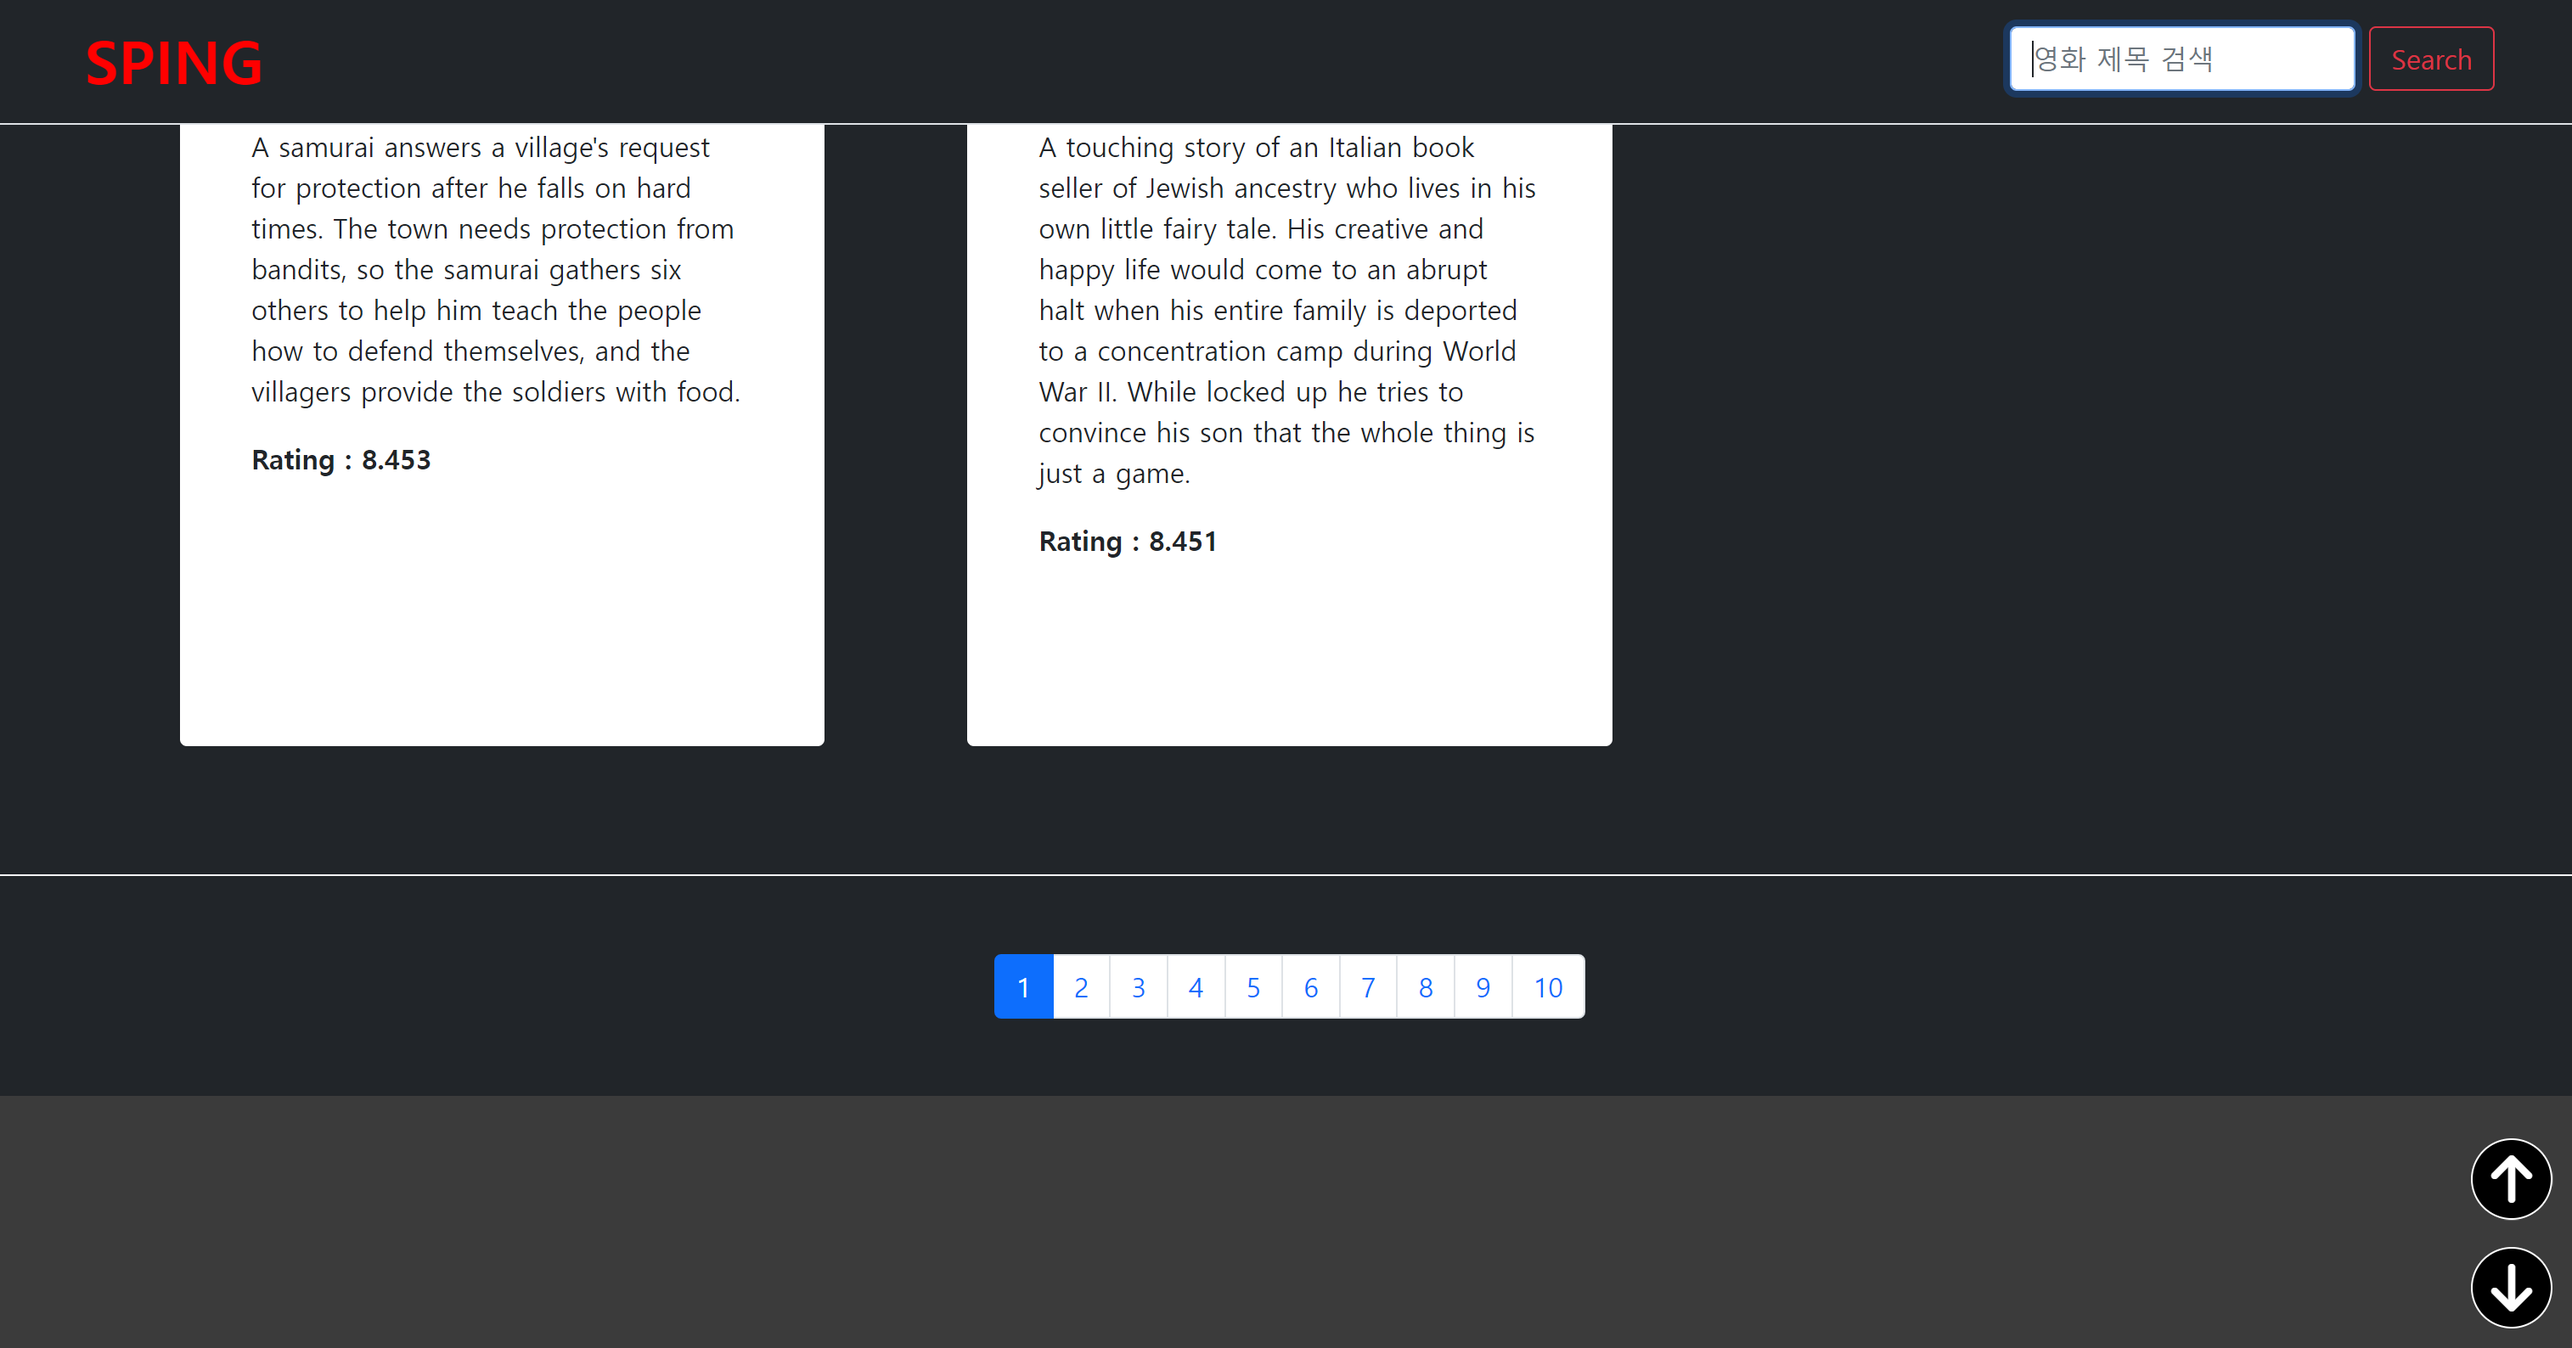
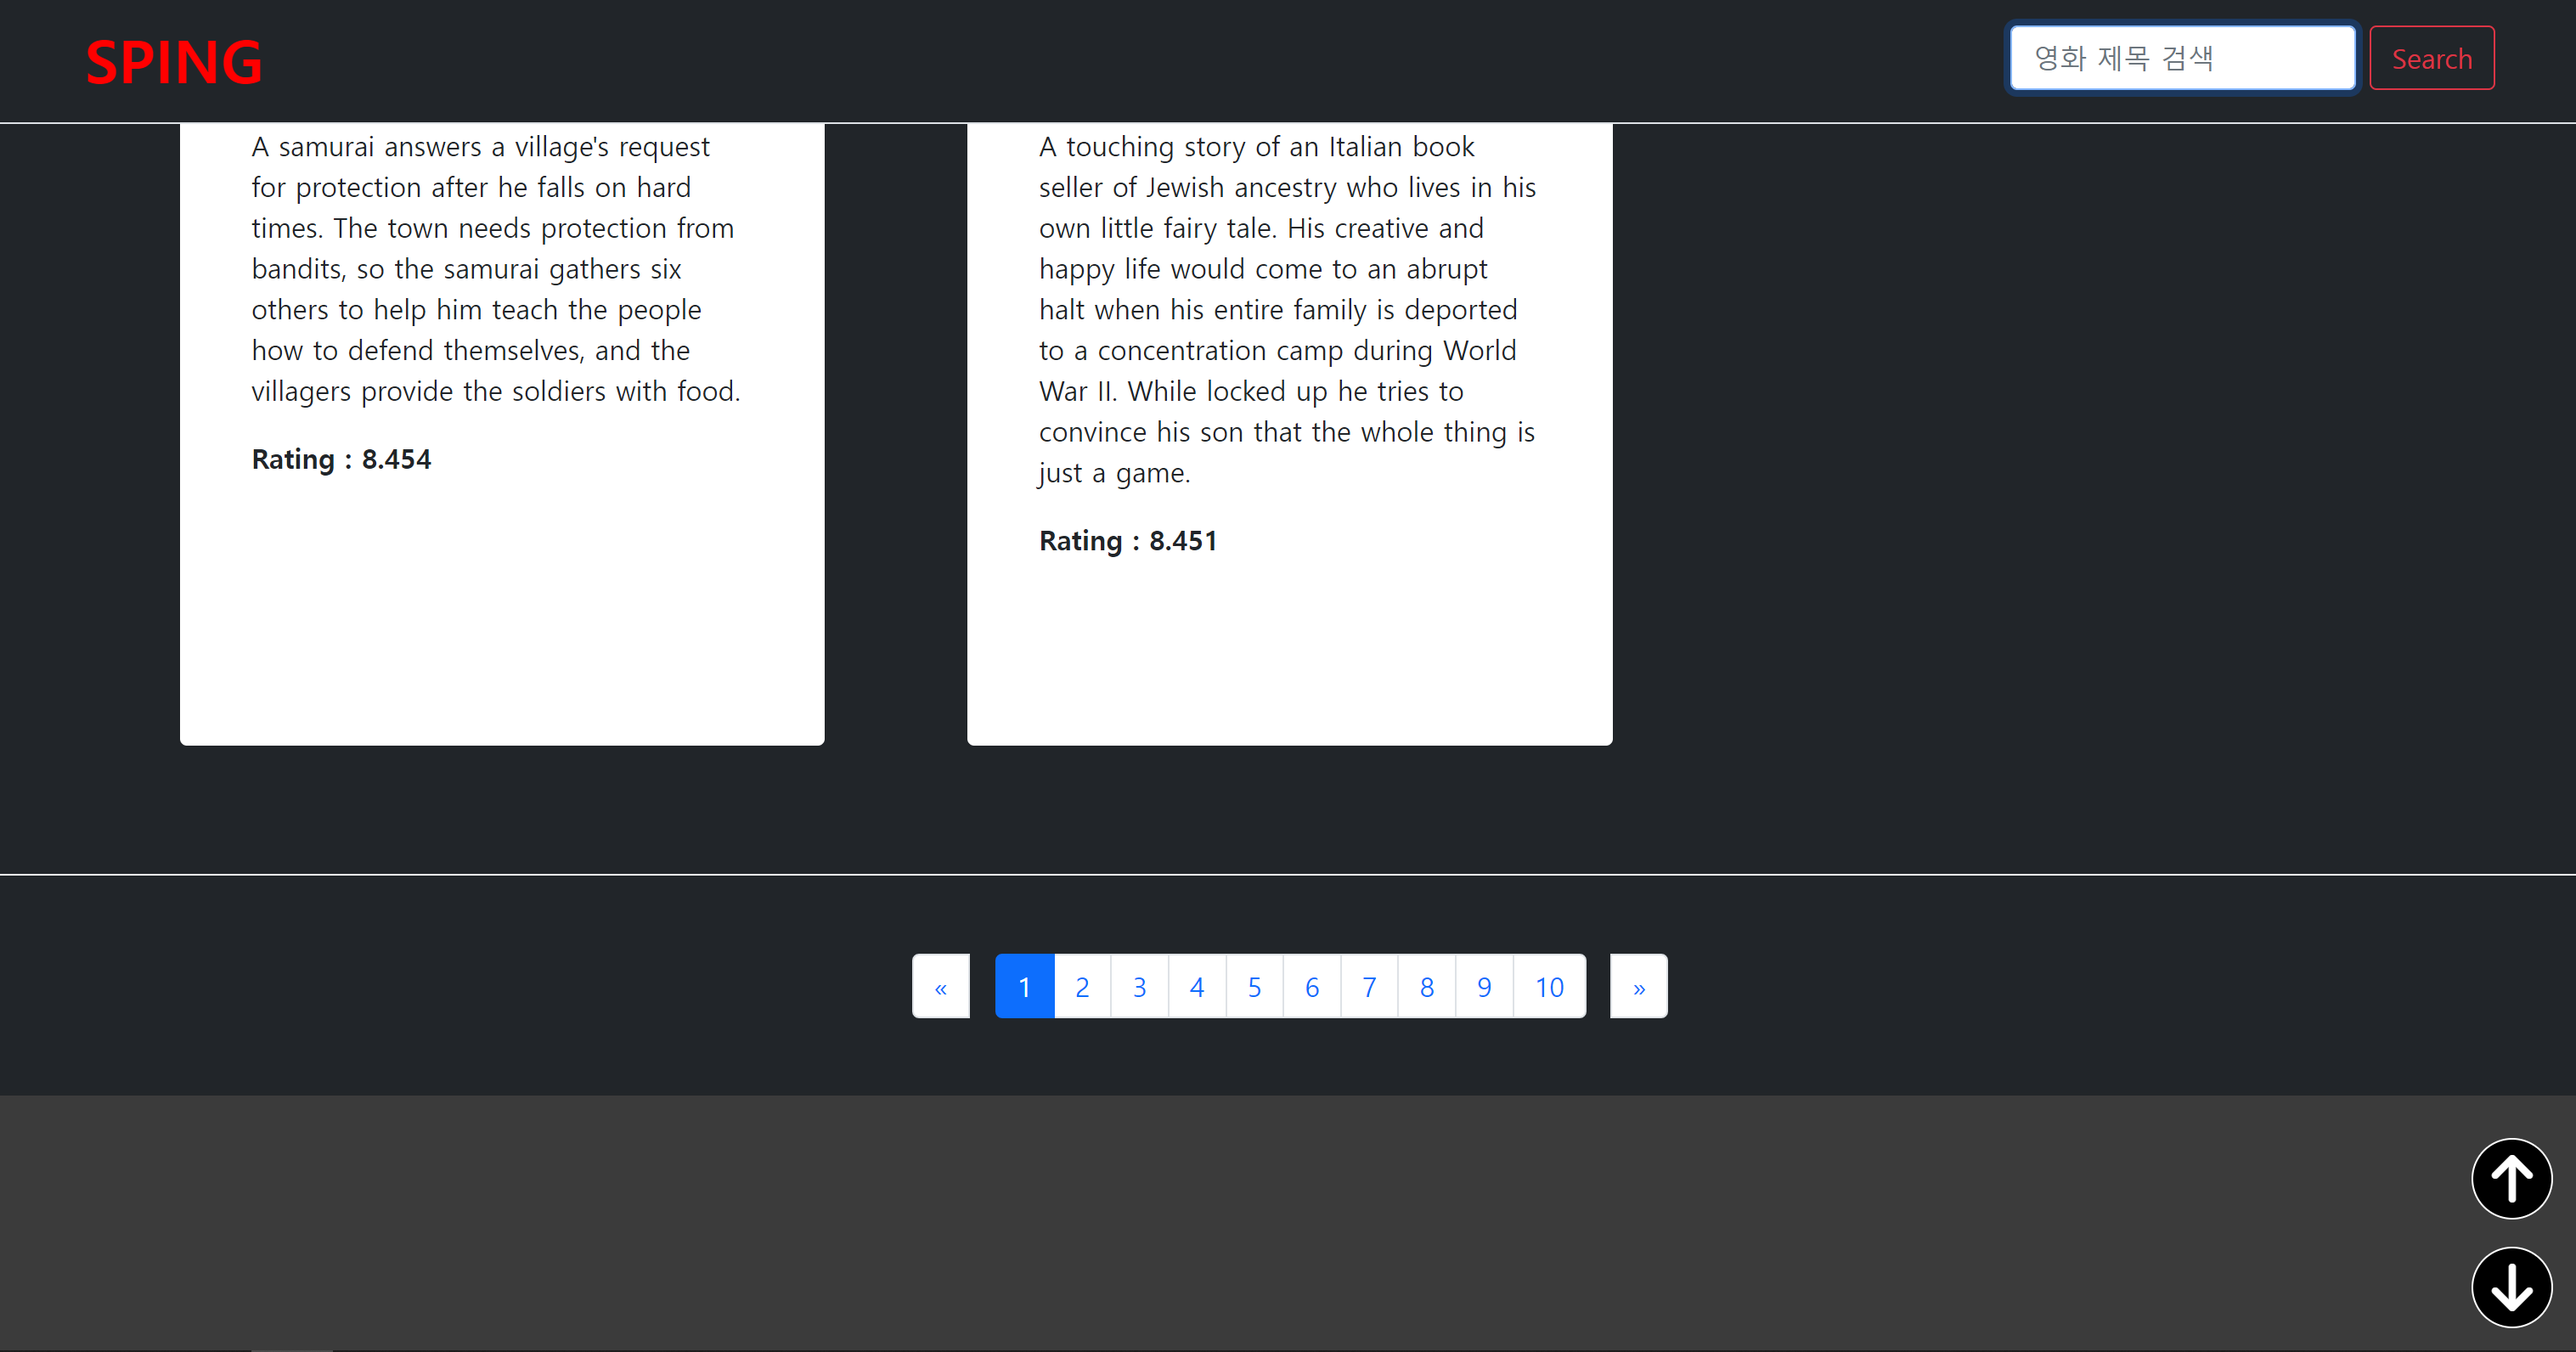
Update readme

diff --git a/README.md b/README.md
@@ -29,6 +29,7 @@
 
 ## 1. 개발 기간
 - 2024.04.24 ~ 2024.04.26
+- 피드백 수정 : 2024.04.29 (완)
 
 <br>
 
@@ -80,11 +81,13 @@
 - 검색창에 입력한 내용과 영화 제목과 비교해서 결과 출력
 - 대소문자 구분 없음
 - 다만, 페이지 단위로 검색이 가능
-- 원래는 10페이지 모두의 데이터를 하나의 변수에 저장할까 고민했지만 일단 페이지 단위로 검색하게 만듦
-- 하나의 변수에 데이터를 저장하는 방식은 데이터베이스와 유사해 보임
+- ~~원래는 10페이지 모두의 데이터를 하나의 변수에 저장할까 고민했지만 일단 페이지 단위로 검색하게 만듦~~
+- ~~하나의 변수에 데이터를 저장하는 방식은 데이터베이스와 유사해 보임~~
+- **(수정)** 10페이지 이상도 볼 수 있도록 수정
+- **(수정)** 전역 변수가 아니라 모듈화를 통해서 직접 변수에 접근하지 못하게 함
     ```javascript
-    import { movieDataList } from "./script.js";
     import { appendCard } from "./card_append.js";
+    import { getMovieDataList } from "./data_manage.js";
 
     const $movieCards = document.querySelector("#movieCards");
     const $searchContent = document.getElementById("search_content");
@@ -98,7 +101,7 @@
         } else {
             // 현재 카드 리스트를 삭제
             $movieCards.replaceChildren();
-            movieDataList.filter((item) => {
+            getMovieDataList().filter((item) => {
                 // 제목과 입력한 내용을 전부 소문자로 바꿔서 비교
                 let lowerTitle = item.title.toLowerCase();
                 let lowerContent = $searchContent.value.toLowerCase();
@@ -111,22 +114,20 @@
     }
 
     // 버튼에 클릭으로 검색 이벤트 추가
-    export const searchBtn = () => {
+    export const addSearchBtnEvent = () => {
         $searchBtn.addEventListener("click", () => {
             searchMovie();
         });
     }
 
-
     // 엔터 입력 시 검색 이벤트 추가
-    export const searchEnter = () => {
+    export const addSearchEnterEvent = () => {
         window.addEventListener("keydown", (event) => {
             if (event.code === "Enter") {
                 searchMovie();
             }
         });
     }
-
     ```
 
 <br>
@@ -135,32 +136,87 @@
 - TMDB는 한 페이지당 20개의 영화 데이터만 전송함
 - 대신 URL에 페이지를 조절해서 값을 요청할 수 있음
 - 그 방법을 이용해서 10페이지 정도의 데이터만 사용
-```javascript
-import { movieDataList } from "./script.js";
-import { loadData } from "./data_load.js";
+- **(수정)** 10페이지 이상도 출력되도록 만듦
+- **(수정)** HTML 코드를 반복문을 통해서 출력
+    ```javascript
+    import { loadData } from "./data_load.js";
+    import { clearMovieDataList } from "./data_manage.js";
 
-const $movieCards = document.querySelector("#movieCards");
-const $pageValue = document.querySelectorAll(".page-item");
-const $activeClass = document.getElementsByClassName("active");
+    const $movieCards = document.querySelector("#movieCards");
+    const $activeClass = document.getElementsByClassName("active");
+    const $pageGroup = document.getElementById('page_item_group');
+    const $prevGroupPage = document.getElementById('prev_group_page');
+    const $nextGroupPage = document.getElementById('next_group_page');
+    let groupPage = 1;
 
 
-// 유사 Pagination 구현
-export const pagination = () => {
-    $pageValue.forEach((item) => {
-        item.addEventListener("click", async () => {
+    // 현재 그룹 페이지 반환 함수
+    export const getGroupPage = () => {
+        return groupPage;
+    }
+    // 그룹 페이지 변수 수정 (이전 그룹 페이지)
+    const setPrevGroupPage = () => {
+        if (groupPage - 10 > 0) {
+            return groupPage -= 10;
+        }
+    }
+    // 그룹 페이지 변수 수정 (다음 그룹 페이지)
+    const setNextGroupPage = () => {
+        return groupPage += 10;
+    }
+
+
+    // 페이지 그룹 이동 버튼에 이벤트 추가 함수
+    export const initPrevNextBtn = () => {
+        $prevGroupPage.addEventListener('click', () => {
+            setPrevGroupPage();
+            $pageGroup.replaceChildren();
+            printPagination(getGroupPage());
+            $pageGroup.firstChild.click();
+        });
+
+        $nextGroupPage.addEventListener('click', () => {
+            setNextGroupPage();
+            $pageGroup.replaceChildren();
+            printPagination(getGroupPage());
+            $pageGroup.firstChild.click();
+        });
+    }
+
+
+    // Pagination 클릭 이벤트 구현
+    const pagination = (item) => {
+        item.addEventListener("click", () => {
             // 페이지 버튼의 활성화를 위한 코드
             $activeClass[1].className = $activeClass[1].className.replace(" active", "");
             item.className += " active";
             
             // 기존의 Card 삭제
             $movieCards.replaceChildren();
-            movieDataList.length = 0  // 페이지 단위로 검색 가능하게 할려고
-            await loadData(item.value);
+            clearMovieDataList();  // 페이지 단위로 검색 가능하게 할려고
+            loadData(item.value);
             window.scrollTo({ top: 0, behavior: "smooth" });
         });
-    });
-}
-```
+    }
+
+
+    // 페이지네이션 출력
+    export const printPagination = (startPageNum) => {
+        let html_tmp = ``;
+
+        for (let i = 0; i < 10; i++){
+            if (i === 0) {
+                html_tmp = `<li class="page-item active" value="${startPageNum}"><a class="page-link">${startPageNum}</a></li>`;
+            } else {
+                html_tmp = `<li class="page-item" value="${startPageNum + i}"><a class="page-link">${startPageNum + i}</a></li>`;
+            }
+            $pageGroup.insertAdjacentHTML("beforeend", html_tmp);
+
+            let pageBtn = $pageGroup.lastChild;
+            pagination(pageBtn);
+        }
+    }
+    ```
 
 <br>
 
@@ -249,4 +305,113 @@ const loadData = async (pageNum) => {
 
     // 참고 : https://kimk2062.tistory.com/24
     ```
-    
+
+<br>
+
+### 5-4. 전역변수 모듈화
+- 피드백으로 전역변수말고 다른 방법을 사용하라고 피드백 받음
+- 객체지향프로그래밍의 요소 중 캡슐화를 사용
+- 데이터가 들어있는 변수에 직접 접근하지 못하도록 수정
+- 그 변수를 사용하기 위해서는 만들어진 함수를 통해서 접근
+    ```javascript
+    let movieDataList = [];
+
+    export const getMovieDataList = () => {
+        return movieDataList;
+    }
+
+    export const addMovieData = (item) => {
+        movieDataList.push(item);
+    }
+
+    export const clearMovieDataList = () => {
+        movieDataList.length = 0;
+    }
+    ```
+
+<br>
+
+### 5-5. 페이지네이션 10페이지 이상으로 수정
+- 기존에는 10페이지에 해당하는 데이터만 볼 수 있었음
+- 피드백 이후 페이지네이션 버튼을 자바스크립트로 관리할 수 있도록 수정
+- 그렇기에 printPagination() 등 필요한 함수를 구현
+- 함수들간에 실행 순서에서 시간을 많이 소모함
+    ```javascript
+    import { loadData } from "./data_load.js";
+    import { clearMovieDataList } from "./data_manage.js";
+
+    const $movieCards = document.querySelector("#movieCards");
+    const $activeClass = document.getElementsByClassName("active");
+    const $pageGroup = document.getElementById('page_item_group');
+    const $prevGroupPage = document.getElementById('prev_group_page');
+    const $nextGroupPage = document.getElementById('next_group_page');
+    let groupPage = 1;
+
+
+    // 현재 그룹 페이지 반환 함수
+    export const getGroupPage = () => {
+        return groupPage;
+    }
+    // 그룹 페이지 변수 수정 (이전 그룹 페이지)
+    const setPrevGroupPage = () => {
+        if (groupPage - 10 > 0) {
+            return groupPage -= 10;
+        }
+    }
+    // 그룹 페이지 변수 수정 (다음 그룹 페이지)
+    const setNextGroupPage = () => {
+        return groupPage += 10;
+    }
+
+
+    // 페이지 그룹 이동 버튼에 이벤트 추가 함수
+    export const initPrevNextBtn = () => {
+        $prevGroupPage.addEventListener('click', () => {
+            setPrevGroupPage();
+            $pageGroup.replaceChildren();
+            printPagination(getGroupPage());
+            $pageGroup.firstChild.click();
+        });
+
+        $nextGroupPage.addEventListener('click', () => {
+            setNextGroupPage();
+            $pageGroup.replaceChildren();
+            printPagination(getGroupPage());
+            $pageGroup.firstChild.click();
+        });
+    }
+
+
+    // Pagination 클릭 이벤트 구현
+    const pagination = (item) => {
+        item.addEventListener("click", () => {
+            // 페이지 버튼의 활성화를 위한 코드
+            $activeClass[1].className = $activeClass[1].className.replace(" active", "");
+            item.className += " active";
+            
+            // 기존의 Card 삭제
+            $movieCards.replaceChildren();
+            clearMovieDataList();  // 페이지 단위로 검색 가능하게 할려고
+            loadData(item.value);
+            window.scrollTo({ top: 0, behavior: "smooth" });
+        });
+    }
+
+
+    // 페이지네이션 출력
+    export const printPagination = (startPageNum) => {
+        let html_tmp = ``;
+
+        for (let i = 0; i < 10; i++){
+            if (i === 0) {
+                html_tmp = `<li class="page-item active" value="${startPageNum}"><a class="page-link">${startPageNum}</a></li>`;
+            } else {
+                html_tmp = `<li class="page-item" value="${startPageNum + i}"><a class="page-link">${startPageNum + i}</a></li>`;
+            }
+            $pageGroup.insertAdjacentHTML("beforeend", html_tmp);
+
+            let pageBtn = $pageGroup.lastChild;
+            pagination(pageBtn);
+        }
+    }
+    ```
